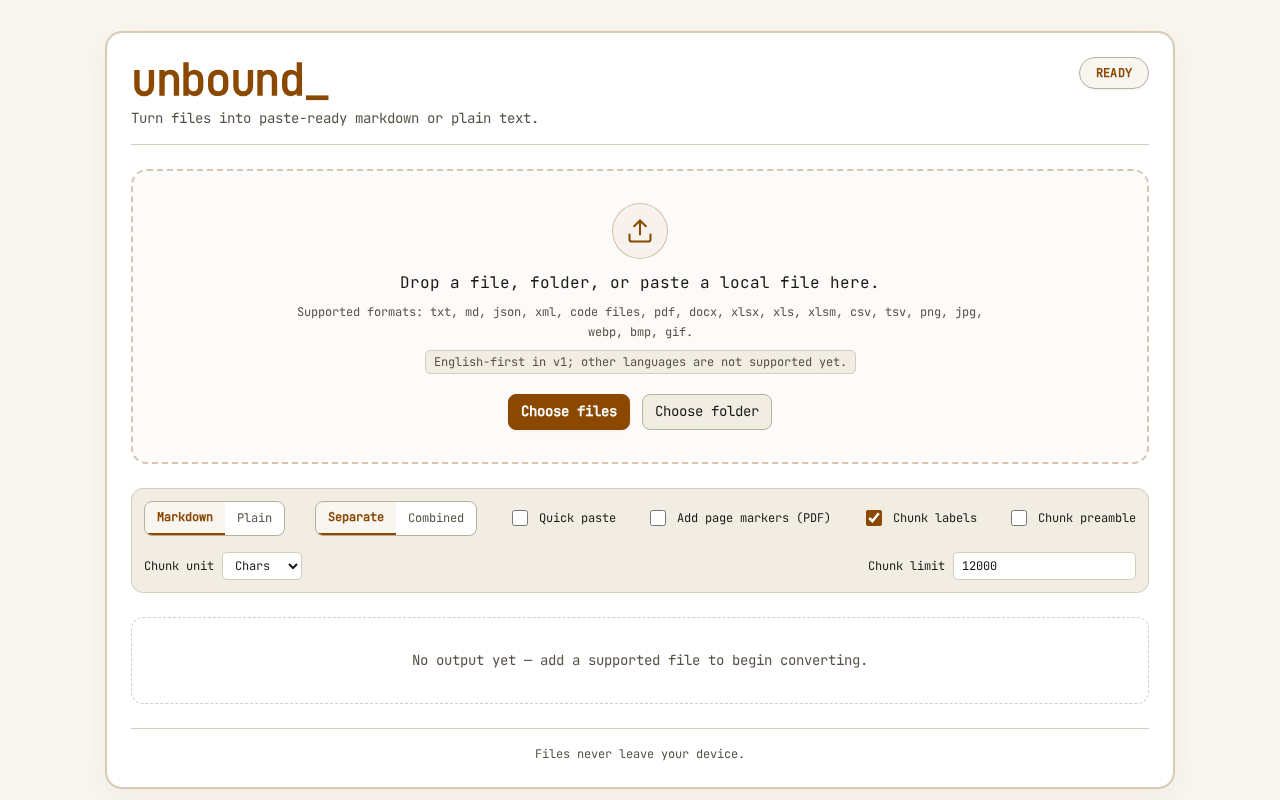
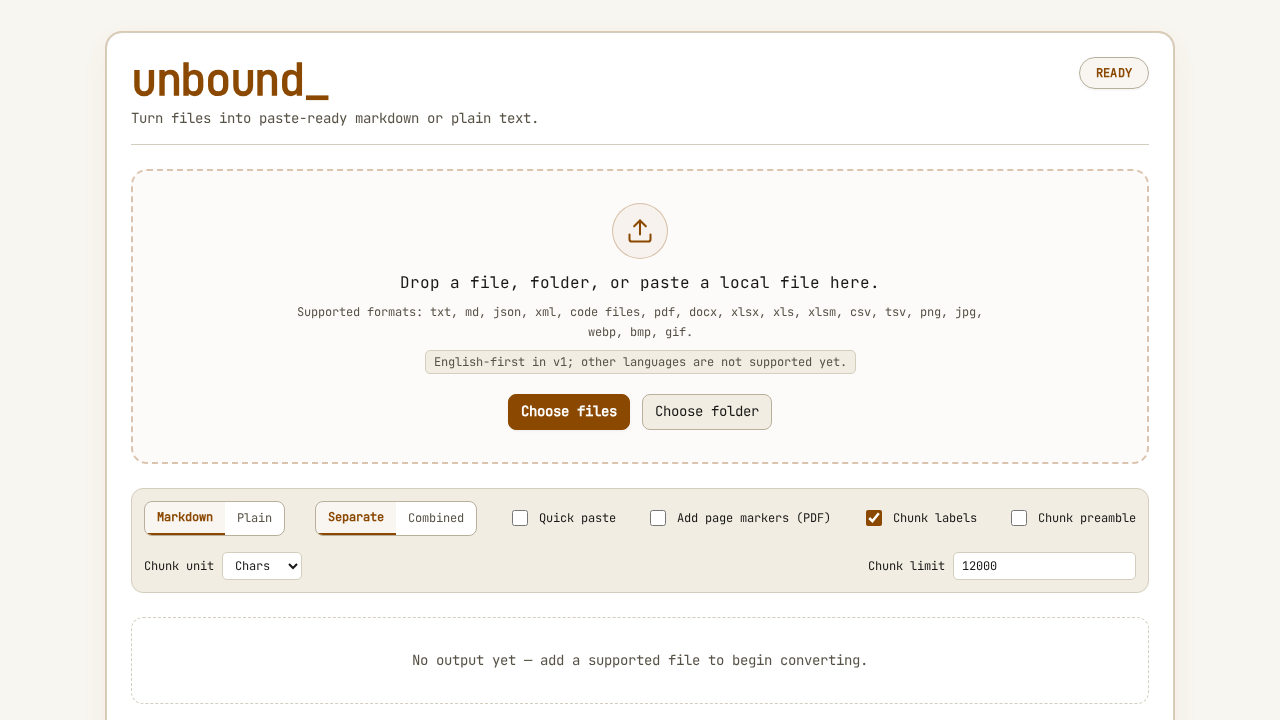
fix(docs): regenerate light-theme screenshot with correct color scheme and add mobile-light variant

diff --git a/README.md b/README.md
@@ -181,6 +181,8 @@ Unbound features a terminal-inspired interface built on CSS custom properties (`
 ![Active OCR Progress Bar and Cancel Action](docs/screenshots/ocr-progress.png)
 <!-- slide -->
 ![Sticky Mobile Copy Button on Narrow Viewports](docs/screenshots/mobile-copy.png)
+<!-- slide -->
+![Mobile Light Theme Home Screen](docs/screenshots/mobile-light.png)
 ```
 
 - **Hero DropZone:** Prominent upload target with format tags, file picker, and folder upload support.
